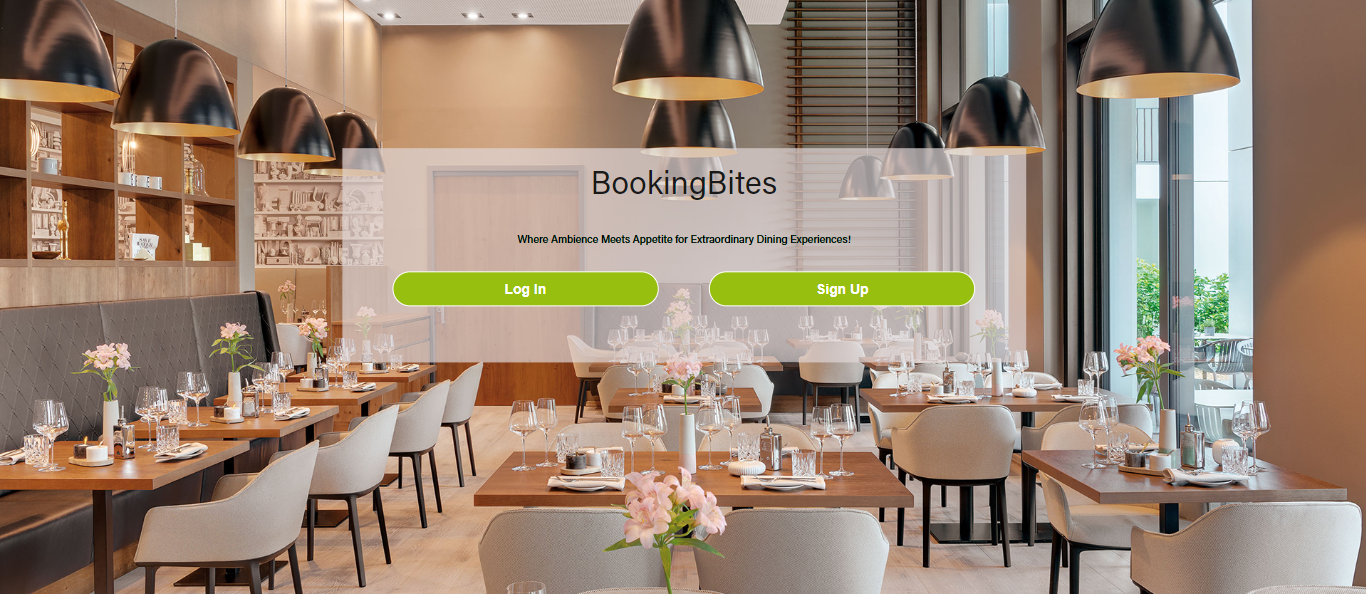
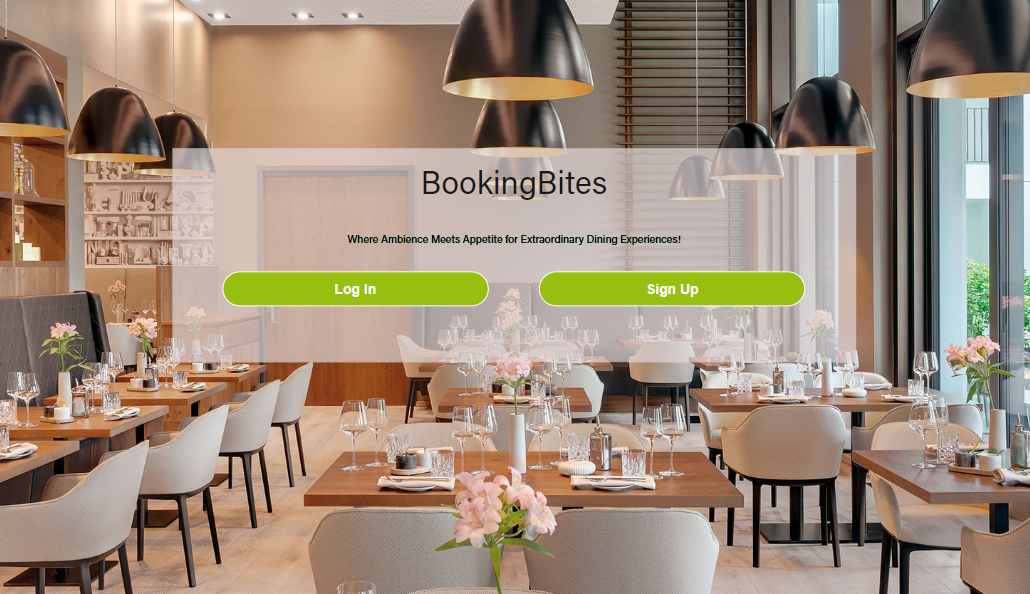
Changes

diff --git a/JS Files/Desktop/mainproject_html_elements.js b/JS Files/Desktop/mainproject_html_elements.js
@@ -9,6 +9,52 @@ const pro = [
     liveLink: 'https://bookingbites-ve9h.onrender.com/',
     sourceLink: 'https://github.com/JuanDBta/booking-bites',
   },
+
+  {
+    name: 'Blog App',
+    description: 'The Blog app is a classic example of a blog website. I created a fully functional website that will show the list of posts and empower readers to interact with them by adding comments and liking posts.',
+    image: 'images/Projects3.png',
+    tech: ['Ruby On Rails', 'PostgreSQL', 'RSpec'],
+    liveLink: 'https://blog-app-po5m.onrender.com/',
+    sourceLink: 'https://github.com/JuanDBta/blog-app',
+  },
+
+  {
+    name: 'MET Art App',
+    description: 'This App connects the user with the Metropolitan Art Museum of New York API and display NINETEENTH CENTURY TOP ARTISTS. When you click an artists image you can access to all their paintings available in MET with main details like title, year of creation and medium.',
+    image: 'images/Projects4.jpg',
+    tech: ['React', 'Redux', 'Jest'],
+    liveLink: 'https://met-app.onrender.com/',
+    sourceLink: 'https://github.com/JuanDBta/met-art-app',
+  },
+
+  {
+    name: 'Space Hub',
+    description: 'In this website, we worked with the real live data from the SpaceX API. We built a web application for a company that provides commercial and scientific space travel services. The application allows users to book rockets and join selected space missions.',
+    image: 'images/Projects5.png',
+    tech: ['React', 'Redux', 'Jest'],
+    liveLink: 'https://spacex-4e71.onrender.com/',
+    sourceLink: 'https://github.com/JuanDBta/spacex',
+  },
+
+  {
+    name: 'Math Magicians',
+    description: 'Math Magicians is a website for all fans of mathematics. It is a Single Page App (SPA) that allows users to: Make simple calculations. Read a random math-related quote.',
+    image: 'images/Projects6.png',
+    tech: ['React', 'CSS3', 'Jest'],
+    liveLink: 'https://math-magicians-project-4enh.onrender.com/',
+    sourceLink: 'https://github.com/JuanDBta/math-magicians',
+  },
+
+  {
+    name: 'My Finances',
+    description: 'This app is about building a mobile web application where you can manage your budget: you have a list of transactions associated with a category, so that you can see how much money you spent and on what.',
+    image: 'images/Projects2.png',
+    tech: ['Ruby On Rails', 'PostgreSQL', 'RSpec'],
+    liveLink: 'https://my-finances-h7t3.onrender.com/',
+    sourceLink: 'https://github.com/JuanDBta/my-finances',
+  },
+
 ];
 
 pro.forEach((project) => {

diff --git a/index.html b/index.html
@@ -49,8 +49,8 @@
     
       <div class="collage dot-grid-projects"><img src="Images SVG/image_dots.svg" alt=""></div>
       <div class="collage collage1"><img src="Images SVG/image-geometry_collage1.svg" alt=""></div>
-      <div class="collage backgroundprojects2"><a href="https://github.com/JuanDBta/my-finances" target="_blank"><img src="images/Projects2.png" alt=""></a></div>
-      <a href="https://github.com/JuanDBta/blog-app" target="_blank" class="blogapp"><div class="collage backgroundprojects3"></div></a>
+      <div class="collage backgroundprojects2"><a href="https://github.com/JuanDBta/my-finances" target="_blank"><img src="images/Projects3.png" alt=""></a></div>
+      <a href="https://github.com/JuanDBta/booking-bites" target="_blank" class="blogapp"><div class="collage backgroundprojects3"></div></a>
       <div class="collage backgroundprojects4"><a href="https://github.com/JuanDBta/math-magicians" target="_blank"><img src="images/Projects6.png" alt=""></a></div>
       <div class="collage backgroundprojects5"></div>
       <div class="collage rhombus"><img src="Images SVG/rhombus.svg" alt=""></div>
@@ -220,9 +220,6 @@
   
   <script src="JS Files/Desktop/dots_html_elements.js"></script>
   <script src="JS Files/Desktop/mainproject_html_elements.js"></script>
-  <script src="JS Files/Mobile/all_html_elements.js"></script>
-  <script src="JS Files/Mobile/mobile_menu.js"></script>
-  <script src="JS Files/Mobile/mobilepopup_project.js"></script>
   <script src="JS Files/Desktop/popup_allprojects_desktop.js"></script>
   <script src="JS Files/General/validation_email.js"></script>
   <script src="JS Files/General/local-storage.js"></script>

diff --git a/JS Files/Desktop/desktop_project_card.js b/JS Files/Desktop/desktop_project_card.js
@@ -2,6 +2,10 @@ const projectButton = document.querySelector('.project-button');
 const projectDisplay = document.querySelector('.popup-desktop');
 const closeCardButton = document.querySelector('.desktoppopx');
 const projectContainer = document.querySelector('.projects-container');
+const projectButtonMobile = document.querySelector('.project-button');
+const projectDisplayMobile = document.querySelector('.popup-mobile');
+const closeCardButtonMobile = document.querySelector('.desktoppopxmobile');
+const projectContainerMobile = document.querySelector('.projects-container');
 
 projectButton.addEventListener('click', () => {
   projectDisplay.classList.add('active');
@@ -20,3 +24,30 @@ closeCardButton.addEventListener('click', () => {
     projectContainer.style.display = 'flex';
   }
 });
+
+projectButtonMobile.addEventListener('click', () => {
+  projectDisplayMobile.classList.add('active');
+  if (window.innerWidth <= 768) {
+    projectDisplayMobile.style.display = 'block';
+    projectContainerMobile.style.display = 'none';
+  }
+});
+
+closeCardButtonMobile.addEventListener('click', () => {
+  projectDisplayMobile.classList.remove('active');
+  if (window.innerWidth <= 768) {
+    projectDisplayMobile.style.display = 'none';
+    projectContainerMobile.style.display = 'flex';
+  } else {
+    projectContainerMobile.style.display = 'grid';
+  }
+});
+
+window.addEventListener('resize', () => {
+  if (window.innerWidth >= 768) {
+    projectContainerMobile.style.display = 'grid';
+  } else {
+    projectContainerMobile.style.display = 'flex';
+  }
+});
+

diff --git a/styles.css b/styles.css
@@ -1035,8 +1035,8 @@ footer {
     grid-column: 1;
     width: 56.2vw;
     height: 31vw;
-    background-image: url('images/Projects3.png');
-    background-size: contain;
+    background-image: url('images/Projects1.png');
+    background-size: cover;
     background-repeat: no-repeat;
   }
 

diff --git a/JS Files/Backup/popup_project1.js b/JS Files/Backup/popup_project1.js
@@ -78,3 +78,7 @@ nextButton.addEventListener('click', () => {
   }
   updateProjectInfo();
 });
+
+<script src="JS Files/Mobile/all_html_elements.js"></script>
+<script src="JS Files/Mobile/mobile_menu.js"></script>
+<script src="JS Files/Mobile/mobilepopup_project.js"></script>
